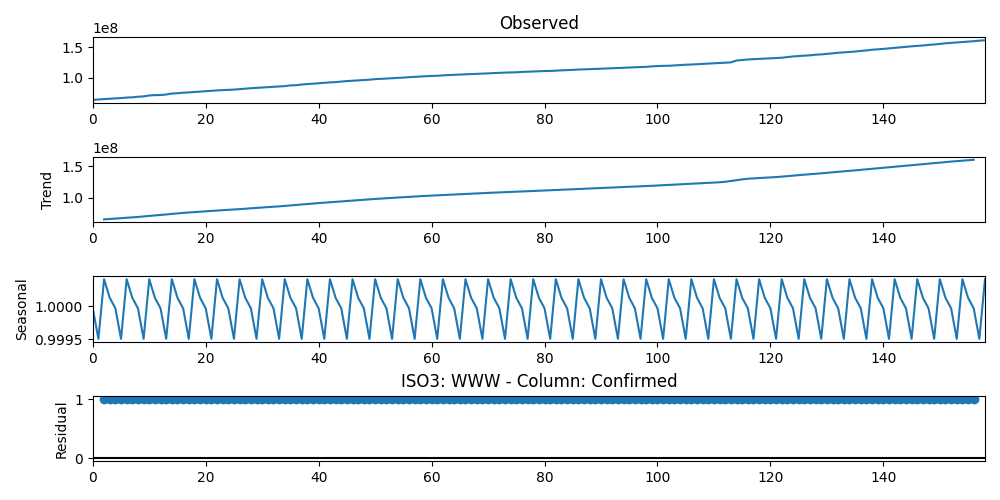
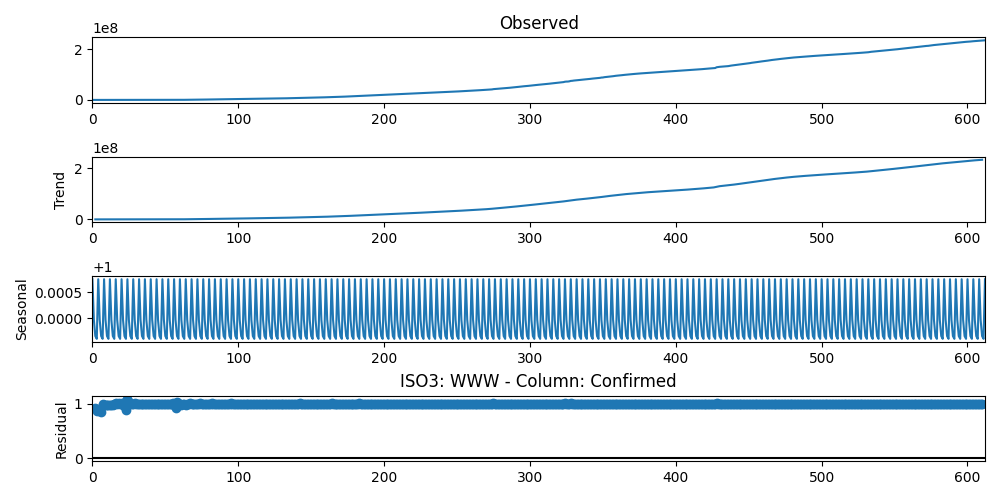
New decomposition

diff --git a/Codigos/decomposicao.py b/Codigos/decomposicao.py
@@ -11,8 +11,8 @@ plt.rcParams['figure.figsize'] = [12, 9]
 df_data = read_csv('../DatasetsTratados/processed_data.csv', sep=',', index_col='Updated')
 df_data.index = to_datetime(df_data.index)
 
-startDate =  df_data.index.min()
-endDate = to_datetime('2021-10-01', format='%Y-%m-%d') # df_data.index.max()
+startDate =  to_datetime('2021-07-01', format='%Y-%m-%d')
+endDate = to_datetime('2022-10-01', format='%Y-%m-%d')
 # endDate = df_data.index.max()
 
 df_tofilterstart = df_data.index >= startDate
@@ -50,7 +50,7 @@ argentina_recovered = decompose(df_filtered, 'ARG', 'Recovered')
 argentina_deaths = decompose(df_filtered, 'ARG', 'Deaths')
 
 def baseFuncLog(x, a, b):
-  return a * np.log(x) + b
+  return (a * x) + b
 
 def nonLinearRegression(data, func, title):
   for i in range(len(data)):
@@ -65,35 +65,40 @@ def nonLinearRegression(data, func, title):
         data[i] = aux
       else: data[i] = data[i-1]
       
-  xdata = np.linspace(minDate.value, maxDate.value, len(data))
-  print(xdata)
+  # xdata = np.linspace(minDate.value, maxDate.value, len(data))
   
   xdataInTime = np.linspace(minDate.value, maxDate.value, len(data))
   xdataInTime = to_datetime(xdataInTime)
-  teste = np.polyfit(np.log(xdata), data, 1)
 
+  data = data / 1000
+
+  aux = np.linspace(1, len(data), len(data))
+  teste = np.polyfit(aux, data, 1)
+
+  print(teste)
+  
   # popt, pcov = curve_fit(func, xdata, data, p0=[1,1,1],bounds=[1,160000000])
 
   plt.plot(xdataInTime, data, 'b-', label='Tendência')
 
-  plt.plot(xdataInTime, func(xdata, teste[0], teste[1]), 'r-',
-          label='Ajuste: a=%5.3f, b=%5.3f' % tuple(teste))
+  plt.plot(xdataInTime, func(aux, teste[0], teste[1]), 'r-',
+          label='Ajuste: a=%5.5f, b=%5.3f' % tuple(teste))
 
-  plt.xlabel('Data de atualização')
-  plt.ylabel('Quantidade')
+  plt.xlabel('Data de atualização (1:10e3)')
+  plt.ylabel('Quantidade (1:10e3)')
   plt.title(title)
   plt.legend()
   plt.show()
 
 
-nonLinearRegression(worlwide_confirmed.trend, baseFuncLog, 'Função de ajuste: a log(x) + b - Casos Confirmados - Mundial')
-nonLinearRegression(worlwide_recovered.trend, baseFuncLog, 'Função de ajuste: a log(x) + b - Recuperados - Mundial')
-nonLinearRegression(worlwide_deaths.trend, baseFuncLog, 'Função de ajuste: a log(x) + b - Mortes - Mundial')
+nonLinearRegression(worlwide_confirmed.trend, baseFuncLog, 'Função de ajuste: ax + b - Casos Confirmados - Mundial')
+nonLinearRegression(worlwide_recovered.trend, baseFuncLog, 'Função de ajuste: ax + b - Recuperados - Mundial')
+nonLinearRegression(worlwide_deaths.trend, baseFuncLog, 'Função de ajuste: ax + b - Mortes - Mundial')
 
-nonLinearRegression(brazil_confirmed.trend, baseFuncLog, 'Função de ajuste: a log(x) + b - Casos Confirmados - Brasil')
-nonLinearRegression(brazil_recovered.trend, baseFuncLog, 'Função de ajuste: a log(x) + b - Recuperados - Brasil')
-nonLinearRegression(brazil_deaths.trend, baseFuncLog, 'Função de ajuste: a log(x) + b - Mortes - Brasil')
+nonLinearRegression(brazil_confirmed.trend, baseFuncLog, 'Função de ajuste: ax + b - Casos Confirmados - Brasil')
+nonLinearRegression(brazil_recovered.trend, baseFuncLog, 'Função de ajuste: ax + b - Recuperados - Brasil')
+nonLinearRegression(brazil_deaths.trend, baseFuncLog, 'Função de ajuste: ax + b - Mortes - Brasil')
 
-nonLinearRegression(argentina_confirmed.trend, baseFuncLog, 'Função de ajuste: a log(x) + b - Casos Confirmados - Argentina')
-nonLinearRegression(argentina_recovered.trend, baseFuncLog, 'Função de ajuste: a log(x) + b - Recuperados - Argentina')
-nonLinearRegression(argentina_deaths.trend, baseFuncLog, 'Função de ajuste: a log(x) + b - Mortes - Argentina')
+nonLinearRegression(argentina_confirmed.trend, baseFuncLog, 'Função de ajuste: ax + b - Casos Confirmados - Argentina')
+nonLinearRegression(argentina_recovered.trend, baseFuncLog, 'Função de ajuste: ax + b - Recuperados - Argentina')
+nonLinearRegression(argentina_deaths.trend, baseFuncLog, 'Função de ajuste: ax + b - Mortes - Argentina')
